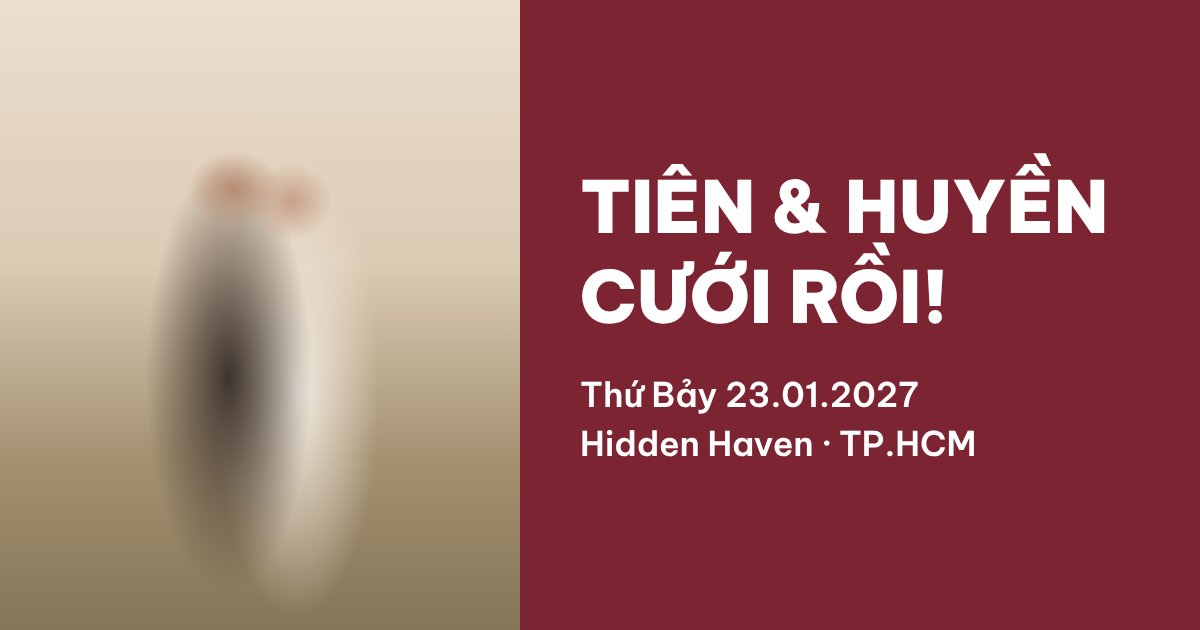
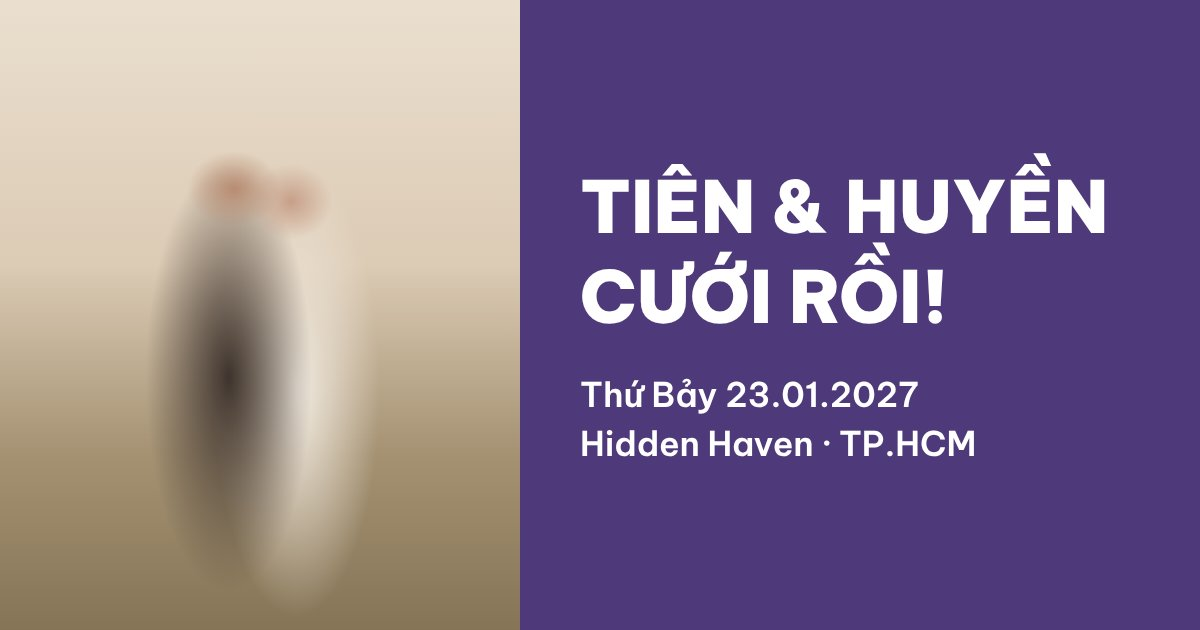
Tông màu D tím oải hương (cô dâu chọn)
- tokens: accent #4E3A7A, paper #F6F3FA, soft #EAE3F5, ink #241F2E, muted #645C73; line/bg/placeholder theo tông tím
- og.jpg placeholder nền tím
- PLAN §5 cập nhật bảng màu; mọi cặp chữ/nền ≥ 4.5:1

Claude-Session: https://claude.ai/code/session_01RkwAqTJNhaAZ5K1hfi2ZmB

diff --git a/src/styles/tokens.css b/src/styles/tokens.css
@@ -19,12 +19,12 @@
 }
 
 :root {
-  --accent: #7d2433; /* đỏ rượu */
-  --soft: #f2e6d8; /* kem đậm (màn xen kẽ) */
-  --paper: #f8f2ea; /* giấy kem nhạt (nền chính) */
-  --ink: #2a2421; /* mực nâu đen, dịu hơn đen thuần */
-  --bg: #1d1916;
-  --muted: #6e625a; /* chữ phụ: tương phản ≥ 4.5 trên cả --paper và --soft */
-  --line: #d6c9bb;
+  --accent: #4e3a7a; /* tím oải hương đậm (cô dâu chọn, phương án D) */
+  --soft: #eae3f5; /* tím nhạt (màn xen kẽ) */
+  --paper: #f6f3fa; /* giấy trắng ngà ánh tím (nền chính) */
+  --ink: #241f2e; /* mực tím than, dịu hơn đen thuần */
+  --bg: #1b1822;
+  --muted: #645c73; /* chữ phụ: tương phản ≥ 4.5 trên cả --paper và --soft */
+  --line: #d4cbe0;
   --ok: #1e7f5c;
 }

diff --git a/src/styles/story.css b/src/styles/story.css
@@ -8,7 +8,7 @@ html { scroll-snap-type: y mandatory; scroll-padding-top: 8px; -webkit-text-size
 html:has(input:focus) { scroll-snap-type: none; }
 body { margin: 0; background: var(--bg); }
 button, input { font: inherit; color: inherit; }
-input::placeholder { color: #8c8077; }
+input::placeholder { color: #7a728a; }
 img { display: block; }
 
 .story {

diff --git a/PLAN.md b/PLAN.md
@@ -138,11 +138,12 @@ Mỗi màn: cao `clamp(640px, 100svh, 760px)`, bo góc 14px, cách nhau 8px trê
 
 | Token | Giá trị | Dùng cho |
 |---|---|---|
-| `--accent` | `#7D2433` (đỏ rượu) | Nút chính, nền màn 6, nhãn tag, băng dính ảnh (trắng trên nền này ≈ 9.7:1) |
-| `--soft` | `#F2E6D8` (kem) | Nền màn photo dump |
-| `--ink` | `#141414` | Chữ, nút phụ |
-| `--paper` | `#FFFFFF` | Nhãn, thẻ, chữ trên ảnh |
-| `--bg` | `#111111` | Nền giữa các màn |
+| `--accent` | `#4E3A7A` (tím oải hương đậm, cô dâu chọn) | Tiêu đề nhấn, giờ, nhãn mention, nền màn 6 (trắng trên nền này ≈ 9.5:1) |
+| `--soft` | `#EAE3F5` (tím nhạt) | Nền màn xen kẽ (2, 4) |
+| `--paper` | `#F6F3FA` (trắng ngà ánh tím) | Nền chính |
+| `--ink` | `#241F2E` (mực tím than) | Chữ, nét vẽ tay, nút viền |
+| `--muted` | `#645C73` | Chữ phụ (≥ 5:1 trên paper và soft) |
+| `--bg` | `#1B1822` | Nền giữa các màn |
 
 - **Font:** Be Vietnam Pro **600 + 900** (chỉ 2 độ đậm). Playwrite VN 400 cho câu viết tay, **subset đúng các ký tự đang dùng** hoặc xuất SVG.
 - **Chữ in hoa tiếng Việt:** `line-height ≥ 1.2` (dưới mức này dấu nặng dòng trên đè dấu sắc dòng dưới).
